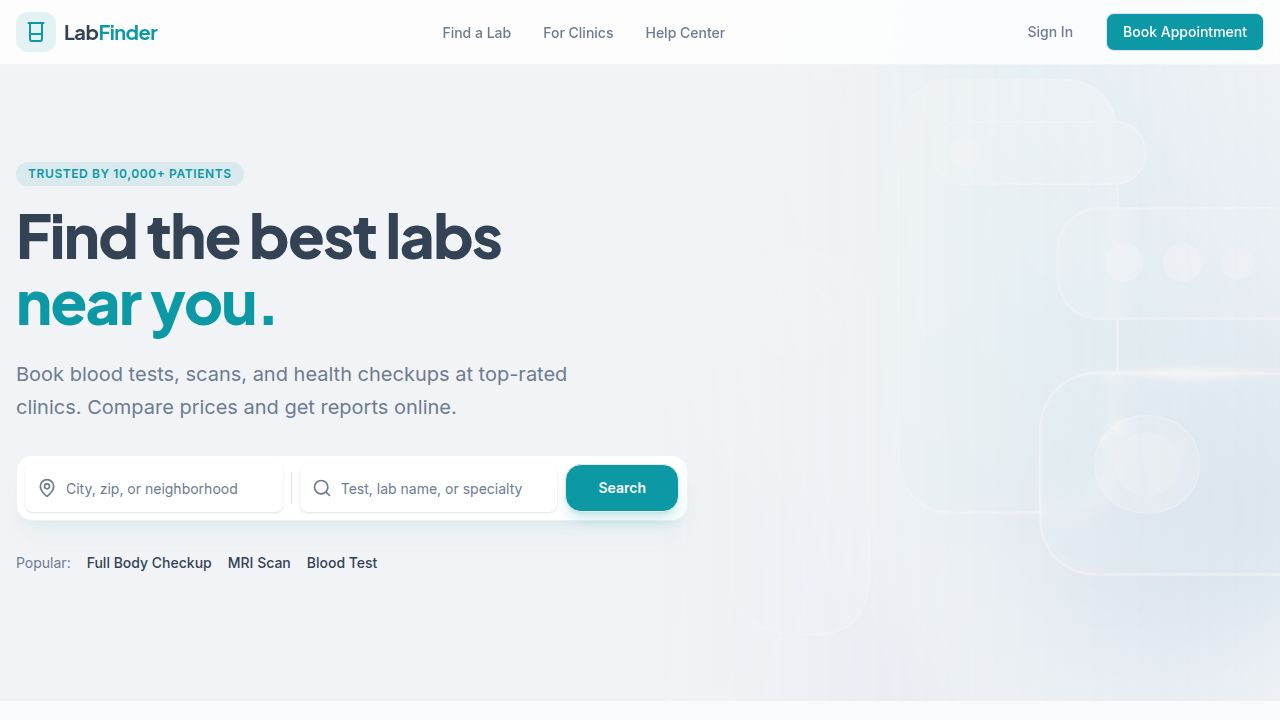
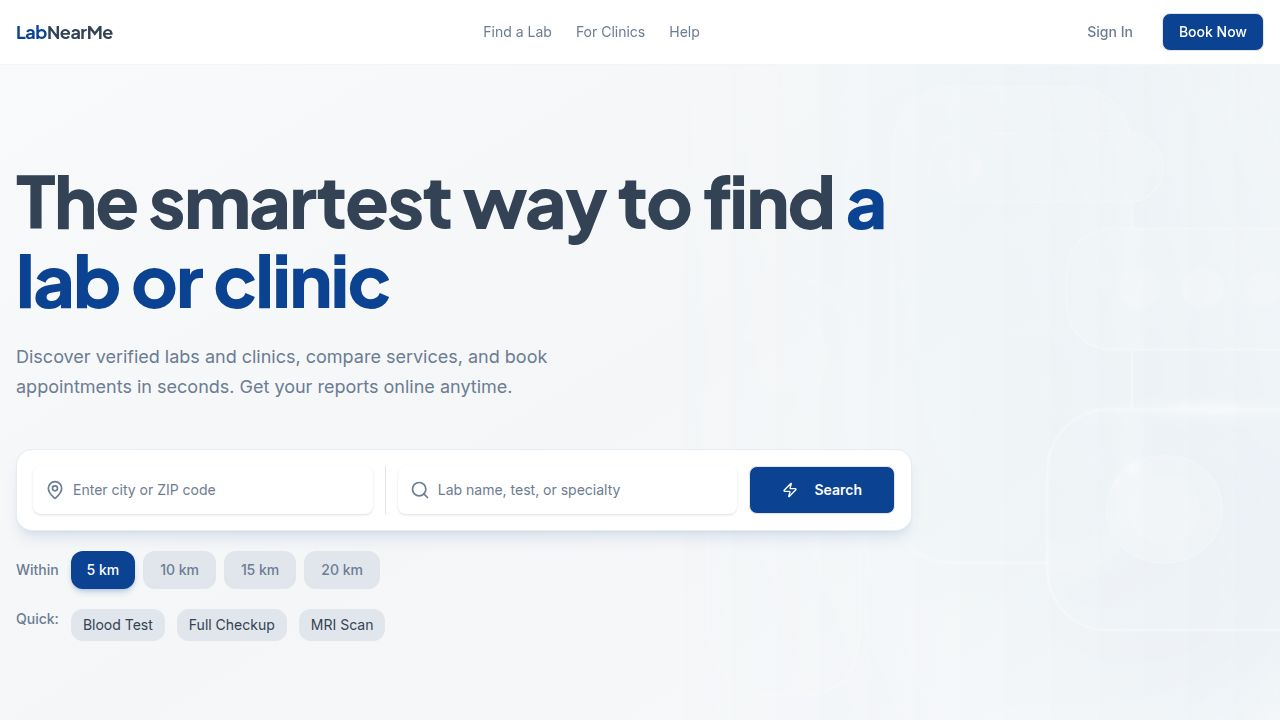
Update app branding and clinic registration features
Update app name to LabNearMe, change primary color to deep blue, update hero text and descriptions, and add a new section for clinic registration.

Replit-Commit-Author: Agent
Replit-Commit-Session-Id: 6ab0238e-f9c3-4a3a-9d06-074498d95bb5
Replit-Commit-Checkpoint-Type: full_checkpoint
Replit-Commit-Event-Id: d5c0817f-cd76-4826-a2d6-60554d3eb111
Replit-Commit-Screenshot-Url: https://storage.googleapis.com/screenshot-production-us-central1/6faec7f1-0bf2-4265-a85c-9dfcd0c00797/6ab0238e-f9c3-4a3a-9d06-074498d95bb5/m38LCI6
Replit-Helium-Checkpoint-Created: true

diff --git a/client/src/pages/Home.tsx b/client/src/pages/Home.tsx
@@ -69,7 +69,7 @@ export default function Home() {
 
         <section className="py-20 bg-secondary/30 border-y border-border/50">
            <div className="container mx-auto px-4 text-center max-w-4xl">
-              <h2 className="text-3xl font-heading font-bold mb-6">Why Choose LabFinder?</h2>
+              <h2 className="text-3xl font-heading font-bold mb-6">Why Choose LabNearMe?</h2>
               <div className="grid md:grid-cols-3 gap-8 text-left mt-12">
                  <div className="bg-background p-6 rounded-xl border border-border/50 shadow-sm hover:shadow-md transition-shadow">
                     <div className="w-12 h-12 bg-blue-100 text-blue-600 rounded-xl flex items-center justify-center mb-4">
@@ -97,20 +97,68 @@ export default function Home() {
         </section>
       </main>
       
+        <section className="py-20 bg-gradient-to-br from-primary/5 via-background to-background border-b border-border">
+          <div className="container mx-auto px-4 max-w-4xl">
+            <div className="grid md:grid-cols-2 gap-12 items-center">
+              <div>
+                <h2 className="text-4xl font-heading font-bold text-foreground mb-4">Are you a clinic or lab?</h2>
+                <p className="text-lg text-muted-foreground mb-8 leading-relaxed">
+                  Join LabNearMe and connect with thousands of patients actively searching for quality medical services in your area. Grow your business and reach more customers.
+                </p>
+                <div className="flex gap-4 flex-col sm:flex-row">
+                  <Button size="lg" className="font-semibold">Register Your Clinic</Button>
+                  <Button size="lg" variant="outline" className="font-semibold">Learn More</Button>
+                </div>
+              </div>
+              <div className="bg-white p-8 rounded-2xl border border-border/60 shadow-lg shadow-primary/5">
+                <div className="space-y-6">
+                  <div className="flex gap-4">
+                    <div className="w-10 h-10 bg-primary/10 rounded-lg flex items-center justify-center flex-shrink-0">
+                      <svg className="w-5 h-5 text-primary" fill="none" stroke="currentColor" viewBox="0 0 24 24"><path strokeLinecap="round" strokeLinejoin="round" strokeWidth={2} d="M13 10V3L4 14h7v7l9-11h-7z" /></svg>
+                    </div>
+                    <div>
+                      <h3 className="font-bold text-foreground mb-1">Get More Patients</h3>
+                      <p className="text-sm text-muted-foreground">Increase bookings from nearby patients searching for your services</p>
+                    </div>
+                  </div>
+                  <div className="flex gap-4">
+                    <div className="w-10 h-10 bg-primary/10 rounded-lg flex items-center justify-center flex-shrink-0">
+                      <svg className="w-5 h-5 text-primary" fill="none" stroke="currentColor" viewBox="0 0 24 24"><path strokeLinecap="round" strokeLinejoin="round" strokeWidth={2} d="M9 12l2 2 4-4m6 2a9 9 0 11-18 0 9 9 0 0118 0z" /></svg>
+                    </div>
+                    <div>
+                      <h3 className="font-bold text-foreground mb-1">Manage Easily</h3>
+                      <p className="text-sm text-muted-foreground">Simple booking and management tools to streamline your operations</p>
+                    </div>
+                  </div>
+                  <div className="flex gap-4">
+                    <div className="w-10 h-10 bg-primary/10 rounded-lg flex items-center justify-center flex-shrink-0">
+                      <svg className="w-5 h-5 text-primary" fill="none" stroke="currentColor" viewBox="0 0 24 24"><path strokeLinecap="round" strokeLinejoin="round" strokeWidth={2} d="M12 8c-1.657 0-3 .895-3 2s1.343 2 3 2 3 .895 3 2-1.343 2-3 2m0-8c1.11 0 2.08.402 2.599 1M12 8V7m0 1v8m0 0v1m0-1c-1.11 0-2.08-.402-2.599-1M21 12a9 9 0 11-18 0 9 9 0 0118 0z" /></svg>
+                    </div>
+                    <div>
+                      <h3 className="font-bold text-foreground mb-1">Transparent Pricing</h3>
+                      <p className="text-sm text-muted-foreground">Fair and transparent fee structure with no hidden charges</p>
+                    </div>
+                  </div>
+                </div>
+              </div>
+            </div>
+          </div>
+        </section>
+
       <footer className="bg-background py-12 border-t border-border mt-auto">
          <div className="container mx-auto px-4 flex flex-col md:flex-row justify-between items-center gap-6">
             <div className="flex items-center gap-2">
                <div className="bg-primary/10 p-2 rounded-lg">
                   <Beaker className="w-5 h-5 text-primary" />
                </div>
-               <span className="font-heading font-bold text-xl tracking-tight">LabFinder</span>
+               <span className="font-heading font-bold text-xl tracking-tight">LabNearMe</span>
             </div>
             <div className="flex gap-8 text-sm text-muted-foreground">
               <a href="#" className="hover:text-primary transition-colors">Privacy</a>
               <a href="#" className="hover:text-primary transition-colors">Terms</a>
               <a href="#" className="hover:text-primary transition-colors">Contact</a>
             </div>
-            <p className="text-sm text-muted-foreground">© 2024 LabFinder Inc.</p>
+            <p className="text-sm text-muted-foreground">© 2024 LabNearMe Inc.</p>
          </div>
       </footer>
     </div>

diff --git a/client/index.html b/client/index.html
@@ -4,14 +4,14 @@
     <meta charset="UTF-8" />
     <meta name="viewport" content="width=device-width, initial-scale=1.0, maximum-scale=1" />
 
-    <meta property="og:title" content="LabFinder - Find Labs & Clinics Near You" />
-    <meta property="og:description" content="Search and book appointments at top-rated medical labs and clinics in your area." />
+    <meta property="og:title" content="LabNearMe - Find Labs & Clinics Near You" />
+    <meta property="og:description" content="The smartest way to find and book appointments at top-rated medical labs and clinics in your area." />
     <meta property="og:type" content="website" />
     <meta property="og:image" content="https://replit.com/public/images/opengraph.png" />
     <meta name="twitter:card" content="summary_large_image" />
     <meta name="twitter:site" content="@replit" />
-    <meta name="twitter:title" content="LabFinder - Find Labs & Clinics Near You" />
-    <meta name="twitter:description" content="Search and book appointments at top-rated medical labs and clinics in your area." />
+    <meta name="twitter:title" content="LabNearMe - Find Labs & Clinics Near You" />
+    <meta name="twitter:description" content="The smartest way to find and book appointments at top-rated medical labs and clinics in your area." />
     <meta name="twitter:image" content="https://replit.com/public/images/opengraph.png" />
 
     <link rel="icon" type="image/png" href="/favicon.png" />

diff --git a/client/src/components/home/Hero.tsx b/client/src/components/home/Hero.tsx
@@ -25,10 +25,10 @@ export function Hero() {
             className="mb-12"
           >
             <h1 className="text-5xl md:text-7xl font-heading font-extrabold text-foreground tracking-tight leading-[1.1] mb-6">
-              Find <span className="text-primary">labs & clinics</span> near you
+              The smartest way to find <span className="text-primary">a lab or clinic</span>
             </h1>
             <p className="text-lg text-muted-foreground max-w-xl leading-relaxed">
-              Search, compare, and book appointments instantly. Get reports online.
+              Discover verified labs and clinics, compare services, and book appointments in seconds. Get your reports online anytime.
             </p>
           </motion.div>
 

diff --git a/client/src/index.css b/client/src/index.css
@@ -44,8 +44,8 @@
   --background: 210 20% 98%;
   --foreground: 215 25% 27%;
 
-  /* Medical Teal/Blue Primary */
-  --primary: 185 85% 35%;
+  /* Deep Blue Primary - LabNearMe Brand */
+  --primary: 216 85% 31%;
   --primary-foreground: 0 0% 100%;
 
   /* Soft Blue/Gray Secondary */
@@ -67,7 +67,7 @@
   /* Borders & Inputs */
   --border: 215 15% 90%;
   --input: 215 15% 90%;
-  --ring: 185 85% 35%;
+  --ring: 216 85% 31%;
 
   /* Cards */
   --card: 0 0% 100%;
@@ -80,7 +80,7 @@
   --background: 222 47% 11%;
   --foreground: 210 40% 98%;
 
-  --primary: 185 70% 50%;
+  --primary: 216 85% 45%;
   --primary-foreground: 222 47% 11%;
 
   --secondary: 217 32% 17%;

diff --git a/client/src/components/layout/Header.tsx b/client/src/components/layout/Header.tsx
@@ -28,7 +28,7 @@ export function Header() {
         <Link href="/">
           <div className="flex items-center gap-2 cursor-pointer">
             <span className="font-heading font-bold text-lg tracking-tight text-foreground">
-              <span className="text-primary">Lab</span>Finder
+              <span className="text-primary">Lab</span>NearMe
             </span>
           </div>
         </Link>
